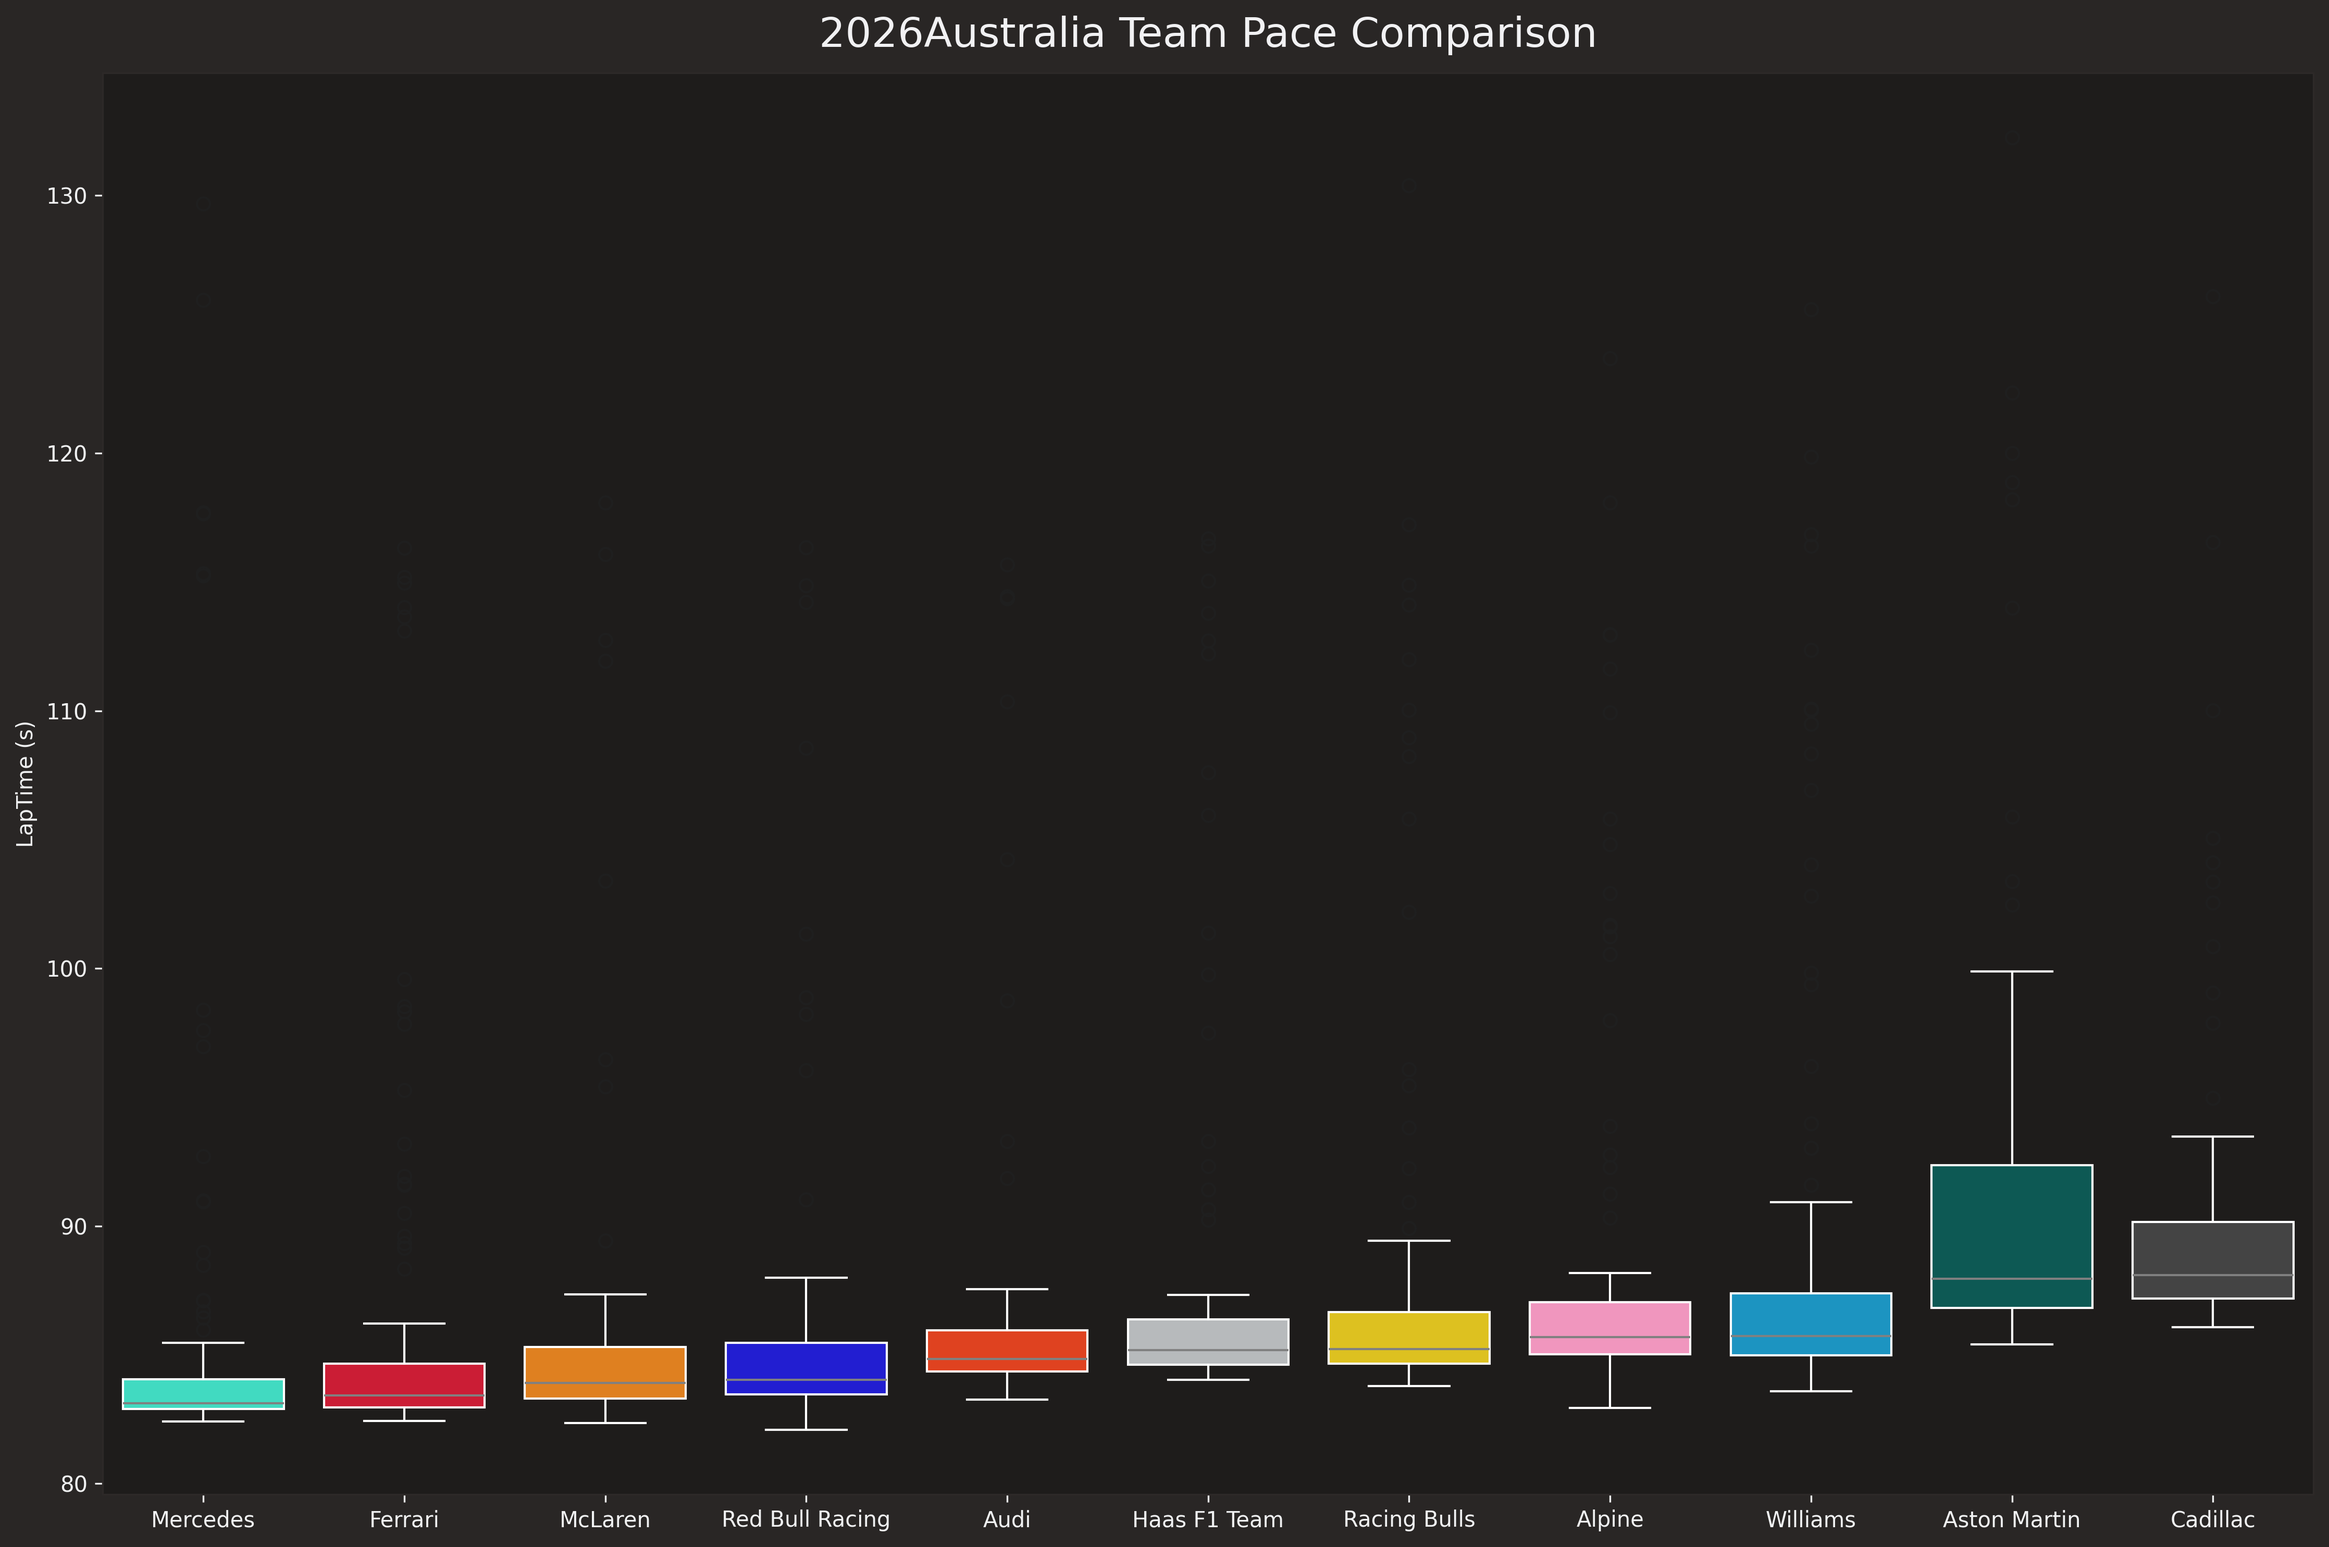
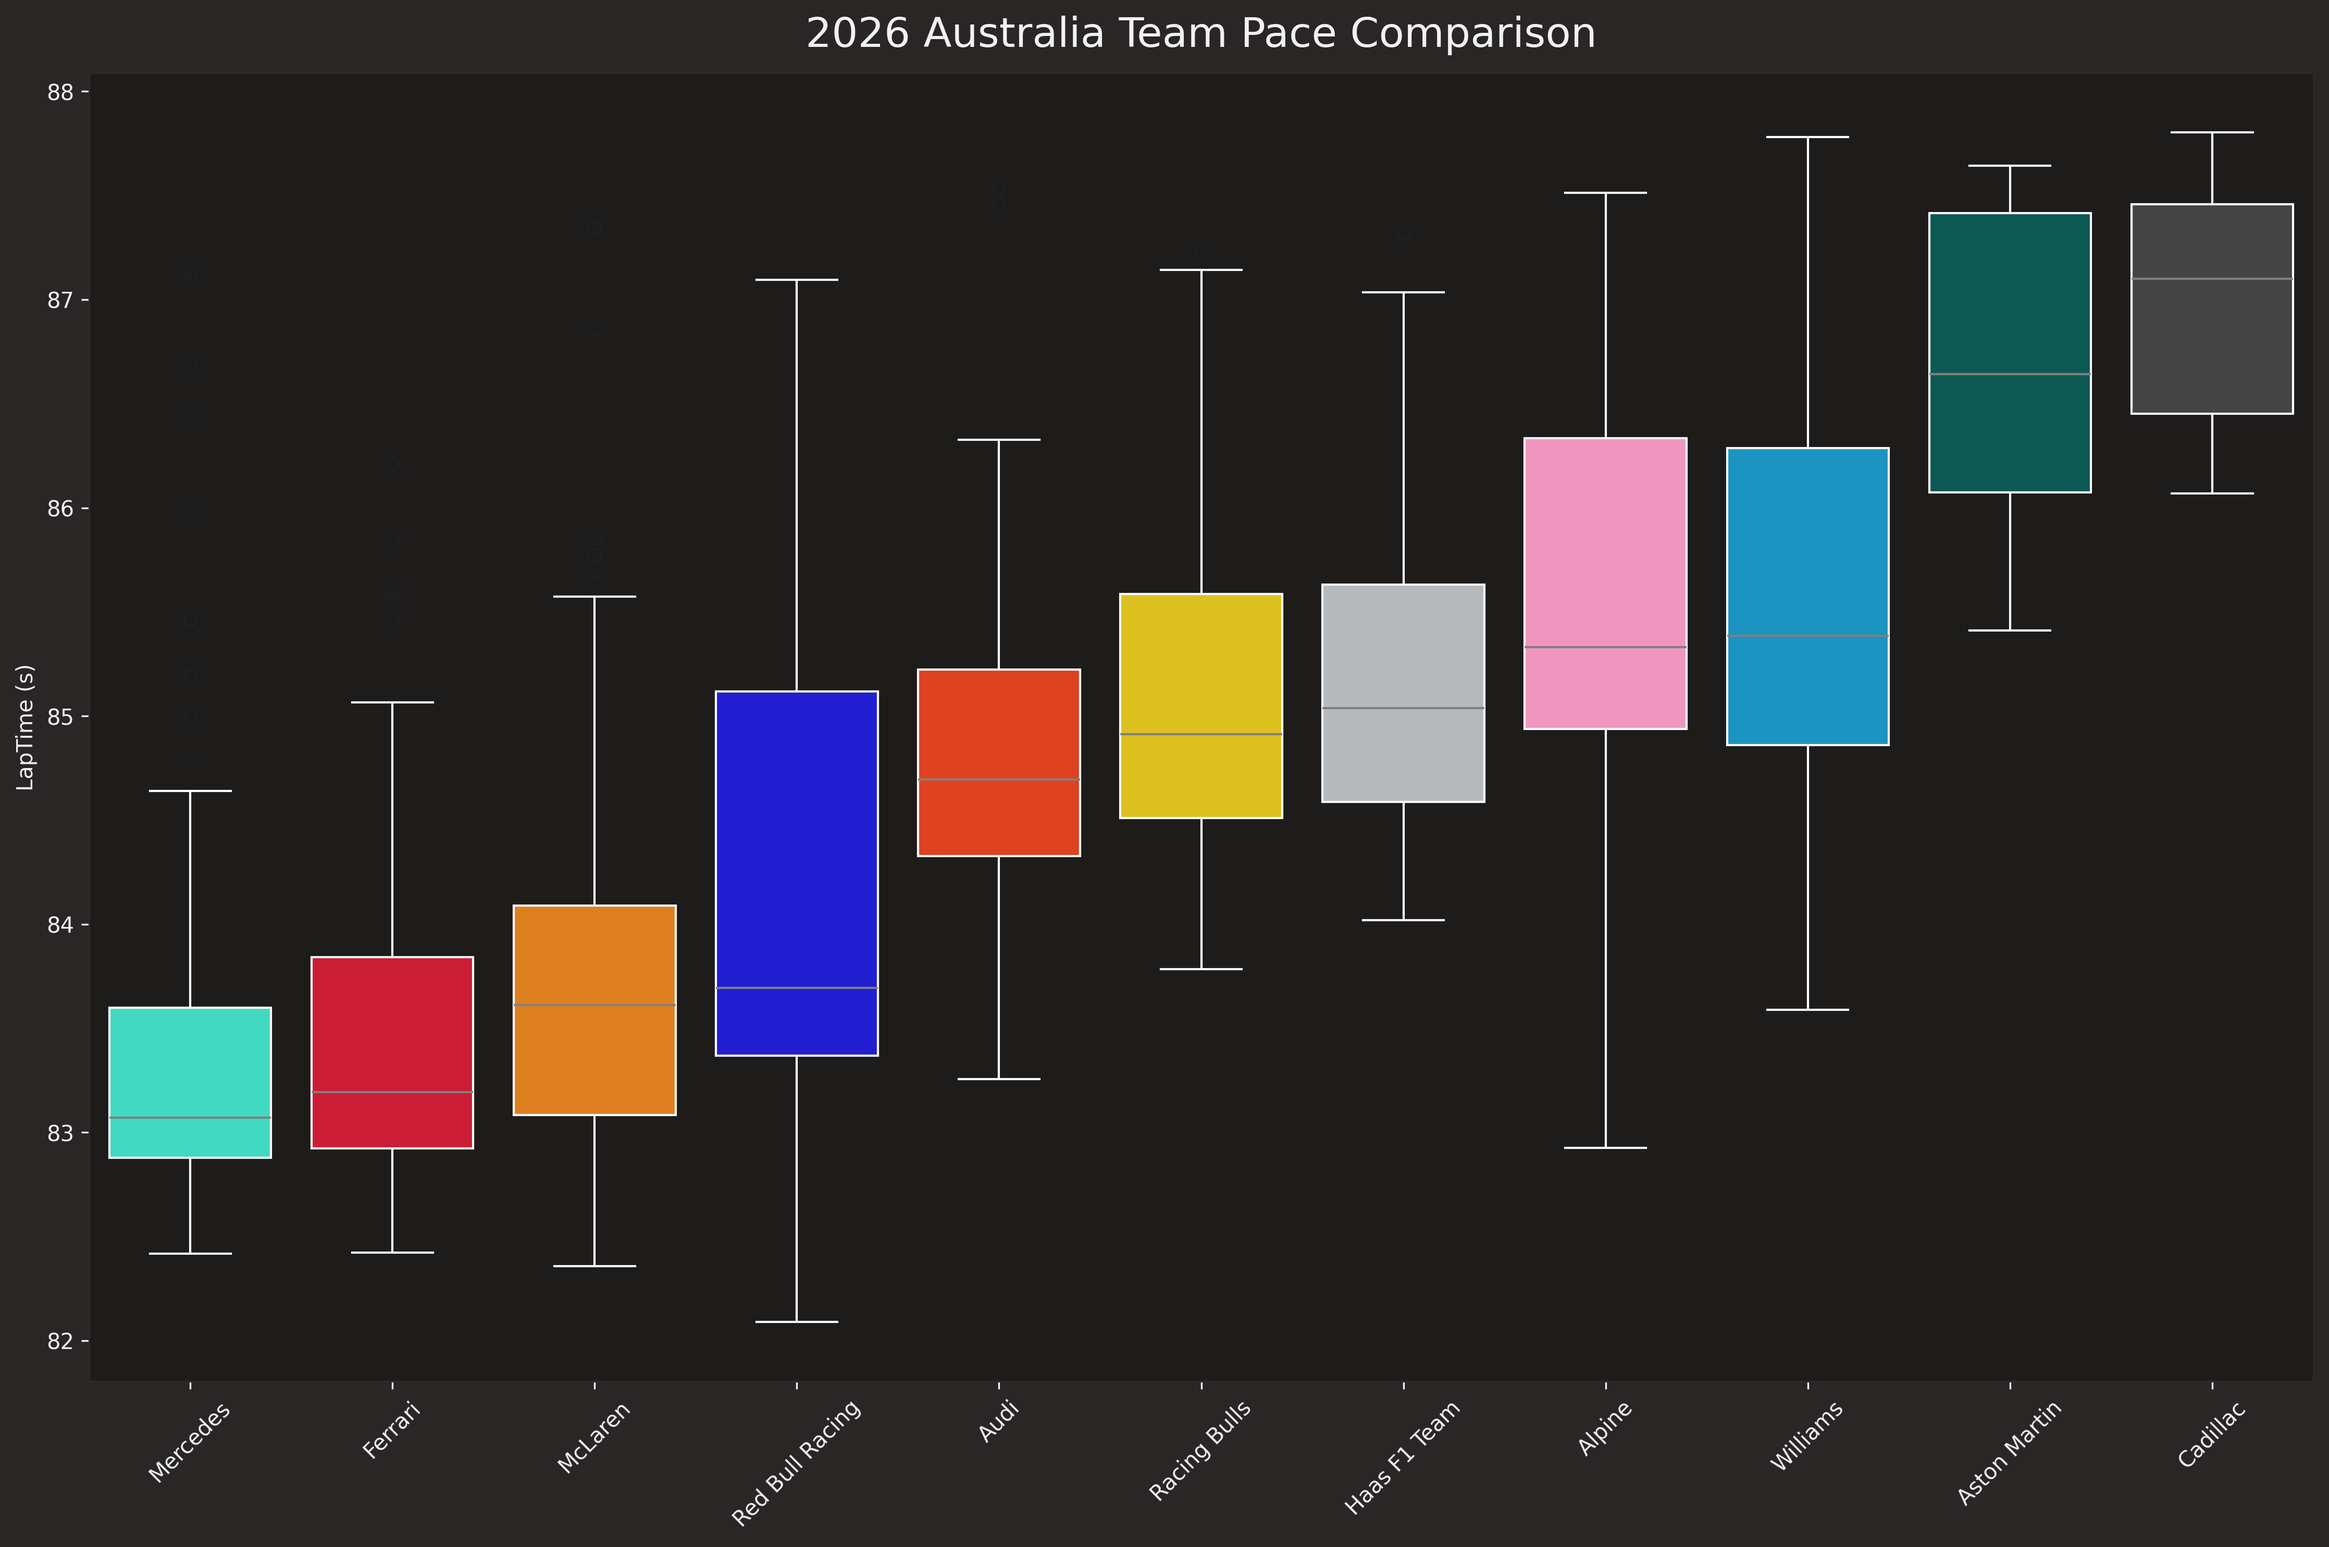
[AUSTRALIA] Updated plots and added script for points calculation

diff --git a/2026/1-australia/plots.py b/2026/1-australia/plots.py
@@ -78,6 +78,7 @@ plt.tight_layout()
 # Save plot
 plot_path = os.path.join(gpx_path, string_race+"_position_changes.png")
 fig.savefig(plot_path, dpi=300, bbox_inches='tight')
+print(f"\nPosition changes plot saved to {plot_path}")
 
 ######################################################
 ### QUALIFYING RESULTS OVERVIEW
@@ -127,116 +128,102 @@ plt.suptitle(f"{quali_session.event['EventName']} {quali_session.event.year} Qua
 # Save plot
 plot_path = os.path.join(gpx_path, string_race+"_qualifying_results.png")
 fig.savefig(plot_path, dpi=300, bbox_inches='tight')
+print(f"\nQualifying results plot saved to {plot_path}")
 
 ######################################################
 ### CIRCUIT
 ######################################################
+
+fig, ax = plt.subplots(figsize=(10, 10)) # Create new fig to avoid overlap
 
 def rotate(xy, *, angle):
     rot_mat = np.array([[np.cos(angle), np.sin(angle)],
                         [-np.sin(angle), np.cos(angle)]])
     return np.matmul(xy, rot_mat)
 
-# Get an array of shape [n, 2] where n is the number of points and the second
-# axis is x and y.
 track = pos.loc[:, ('X', 'Y')].to_numpy()
-
-# Convert the rotation angle from degrees to radian.
 track_angle = circuit_info.rotation / 180 * np.pi
-
-# Rotate and plot the track map.
 rotated_track = rotate(track, angle=track_angle)
-plt.plot(rotated_track[:, 0], rotated_track[:, 1])
 
-offset_vector = [500, 0]  # offset length is chosen arbitrarily to 'look good'
+ax.plot(rotated_track[:, 0], rotated_track[:, 1], linestyle='-', linewidth=3)
 
-# Iterate over all corners.
+offset_vector = [500, 0] 
+
 for _, corner in circuit_info.corners.iterrows():
-    # Create a string from corner number and letter
     txt = f"{corner['Number']}{corner['Letter']}"
-
-    # Convert the angle from degrees to radian.
     offset_angle = corner['Angle'] / 180 * np.pi
-
-    # Rotate the offset vector so that it points sideways from the track.
     offset_x, offset_y = rotate(offset_vector, angle=offset_angle)
-
-    # Add the offset to the position of the corner
-    text_x = corner['X'] + offset_x
-    text_y = corner['Y'] + offset_y
-
-    # Rotate the text position equivalently to the rest of the track map
-    text_x, text_y = rotate([text_x, text_y], angle=track_angle)
-
-    # Rotate the center of the corner equivalently to the rest of the track map
+    
+    text_x, text_y = rotate([corner['X'] + offset_x, corner['Y'] + offset_y], angle=track_angle)
     track_x, track_y = rotate([corner['X'], corner['Y']], angle=track_angle)
 
-    # Draw a circle next to the track.
-    plt.scatter(text_x, text_y, color='grey', s=140)
+    ax.scatter(text_x, text_y, color='grey', s=140)
+    ax.plot([track_x, text_x], [track_y, text_y], color='grey')
+    ax.text(text_x, text_y, txt, va='center_baseline', ha='center', size='small', color='white')
 
-    # Draw a line from the track to this circle.
-    plt.plot([track_x, text_x], [track_y, text_y], color='grey')
+ax.set_title(f"{quali_session.event['Location']} Circuit Map")
+ax.axis('off') # Cleaner look for maps
+ax.set_aspect('equal')
 
-    # Finally, print the corner number inside the circle.
-    plt.text(text_x, text_y, txt,
-             va='center_baseline', ha='center', size='small', color='white')
-    
-plt.title(quali_session.event['Location'])
-plt.axis('equal')
-
-# Save plot
 plot_path = os.path.join(gpx_path, string_race+"_circuit_map.png")
 fig.savefig(plot_path, dpi=300, bbox_inches='tight')
+print(f"\nCircuit map plot saved to {plot_path}")
 
 ######################################################
 ### TYRE STRATEGY DURING THE RACE
 ######################################################
 
-drivers = [race_session.get_driver(driver)["Abbreviation"] for driver in race_session.drivers]
-
+# Prepare stint data
 stints = laps[["Driver", "Stint", "Compound", "LapNumber"]]
-stints = stints.groupby(["Driver", "Stint", "Compound"])
-stints = stints.count().reset_index()
-
+stints = stints.groupby(["Driver", "Stint", "Compound"]).count().reset_index()
 stints = stints.rename(columns={"LapNumber": "StintLength"})
 
-fig, ax = plt.subplots(figsize=(5, 10))
+# Order drivers by finishing position
+drivers = [race_session.get_driver(d)["Abbreviation"] for d in race_session.drivers]
 
-for driver in race_session.drivers:
+fig, ax = plt.subplots(figsize=(6, 10))
+
+for driver in drivers:
     driver_stints = stints.loc[stints["Driver"] == driver]
 
     previous_stint_end = 0
-    for idx, row in driver_stints.iterrows():
-        # each row contains the compound name and stint length
-        # we can use these information to draw horizontal bars
-        compound_color = fastf1.plotting.get_compound_color(row["Compound"],
-                                                            session=race_session)
-        plt.barh(
+    for _, row in driver_stints.iterrows():
+        compound_color = fastf1.plotting.get_compound_color(
+            row["Compound"],
+            session=race_session
+        )
+
+        ax.barh(
             y=driver,
             width=row["StintLength"],
             left=previous_stint_end,
             color=compound_color,
             edgecolor="black",
-            fill=True
+            height=0.8
         )
 
         previous_stint_end += row["StintLength"]
 
-plt.title(str(year)+race_name+" Grand Prix Tyre Strategies")
-plt.xlabel("Lap Number")
-plt.grid(False)
-# invert the y-axis so drivers that finish higher are closer to the top
+# Titles and labels
+ax.set_title(f"{year} {race_name} Grand Prix Tyre Strategies")
+ax.set_xlabel("Lap Number")
+
+# Best finishing drivers at the top
 ax.invert_yaxis()
 
-ax.spines['top'].set_visible(False)
-ax.spines['right'].set_visible(False)
-ax.spines['left'].set_visible(False)
+# Clean aesthetics
+ax.spines["top"].set_visible(False)
+ax.spines["right"].set_visible(False)
+ax.spines["left"].set_visible(False)
+
+ax.grid(False)
 
 plt.tight_layout()
 
 # Save plot
-plot_path = os.path.join(gpx_path, string_race+"_tyre_strategy.png")
-fig.savefig(plot_path, dpi=300, bbox_inches='tight')
+plot_path = os.path.join(gpx_path, string_race + "_tyre_strategy.png")
+fig.savefig(plot_path, dpi=300, bbox_inches="tight")
+print(f"\nTyre strategy plot saved to {plot_path}")
 
 ##########################################################
 ### TEAM PACE COMPARISON
@@ -245,18 +232,13 @@ fig.savefig(plot_path, dpi=300, bbox_inches='tight')
 transformed_laps = laps.copy()
 transformed_laps.loc[:, "LapTime (s)"] = laps["LapTime"].dt.total_seconds()
 
-# order the team from the fastest (lowest median lap time) tp slower
-team_order = (
-    transformed_laps[["Team", "LapTime (s)"]]
-    .groupby("Team")
-    .median()["LapTime (s)"]
-    .sort_values()
-    .index
-)
+# Filter out extreme outliers for better visualization
+transformed_laps = transformed_laps.loc[transformed_laps['LapTime (s)'] < transformed_laps['LapTime (s)'].min() * 1.07]
 
-# make a color palette associating team names to hex codes
-team_palette = {team: fastf1.plotting.get_team_color(team, session=race_session)
-                for team in team_order}
+team_order = (transformed_laps[["Team", "LapTime (s)"]].groupby("Team")
+              .median()["LapTime (s)"].sort_values().index)
+
+team_palette = {team: fastf1.plotting.get_team_color(team, session=race_session) for team in team_order}
 
 fig, ax = plt.subplots(figsize=(15, 10))
 sns.boxplot(
@@ -272,13 +254,11 @@ sns.boxplot(
     capprops=dict(color="white"),
 )
 
-plt.title(str(year)+race_name+" Team Pace Comparison")
-plt.grid(visible=False)
-
-# x-label is redundant
-ax.set(xlabel=None)
+ax.set_title(f"{year} {race_name} Team Pace Comparison")
+ax.set_xlabel(None)
+plt.xticks(rotation=45)
 plt.tight_layout()
 
-# Save plot
 plot_path = os.path.join(gpx_path, string_race+"_team_pace_comparison.png")
 fig.savefig(plot_path, dpi=300, bbox_inches='tight')
+print(f"\nTeam pace comparison plot saved to {plot_path}")

diff --git a/2026/1-australia/points_calculation.py b/2026/1-australia/points_calculation.py
@@ -1,0 +1,59 @@
+import os
+import fastf1
+import json as js
+
+################################################################
+# PATH AND DATA LOADING
+################################################################
+
+race_name = "Australia"
+year = 2026
+
+################################################################
+# PATH AND DATA LOADING
+################################################################
+
+# Set up cache folder
+cache_folder = 'cache_folder'
+os.makedirs(cache_folder, exist_ok=True)
+fastf1.Cache.enable_cache(cache_folder)
+print("\nCache enabled successfully!")
+
+# Set up for json output
+path = os.path.dirname(os.path.abspath(__file__))
+global_path = os.path.dirname(os.path.dirname(os.path.abspath(__file__)))
+os.makedirs(os.path.join(path, "data"), exist_ok=True)
+data_path = os.path.join(path, "data")
+print(f"\n\nGlobal path is: {global_path}")
+print(f"\nBase path is: {path}")
+print(f"\nData path set to: {data_path}")
+
+# JSON file path
+json_namefile = 'gp_points.json'
+json_path = os.path.join(data_path, json_namefile)
+print(f"\nJSON output will be saved to: {json_path}")
+
+# Load session data
+print("\n-------------------------------------------------------------------\n")
+session = fastf1.get_session(year, race_name, 'R')
+session.load(telemetry=False)
+print("\n-------------------------------------------------------------------\n")
+
+print("\nData loaded successfully!\n")
+
+################################################################
+# DATA EXTRACTION AND PROCESSING
+################################################################
+
+# Extract points for each driver
+points_data = session.results[['Abbreviation', 'Points']].dropna(subset=['Points'])
+points_data = points_data.rename(columns={'Abbreviation': 'Driver'})
+points_data['Points'] = points_data['Points'].astype(int)
+
+# Convert to dictionary
+points_dict = points_data.set_index('Driver')['Points'].to_dict()
+
+# Save to JSON
+with open(json_path, 'w') as f:
+    js.dump(points_dict, f, indent=4)
+print("\n\nPoints data saved to ../data/gp_points.json\n\n")

diff --git a/2026/1-australia/REPORT.md b/2026/1-australia/REPORT.md
@@ -2,11 +2,38 @@
 
 ## General information
 **Round 1 - Melbourne Grand Prix Circuit, Melbourne**  
-**Date:** 8 March 2026
+
+Here are the general details of the first round of the 2026 Formula 1 season, held at the Melbourne Grand Prix Circuit in Melbourne, Australia:
+* **Number of laps:** 58
+* **Circuit length:** 5,303 km
+* **Race distance:** 307,574 km
+
+Here is a minimal image of the circuit layout with the location and the number of the corners:
+![australia_circuit_minimal](gpx/2026_australia_circuit_map.png)
+
+### Weekend schedule
+The weekend schedule for the Melbourne Grand Prix Circuit was as follows:
+* **Practice 1:** 6 March, 12:30 PM - 13:30 PM
+* **Practice 2:** 6 March, 16:00 PM - 17:00 PM
+* **Practice 3:** 7 March, 12:30 PM - 13:30 PM
+* **Qualifying:** 7 March, 16:00 PM - 17:00 PM
+* **Race:** 8 March, 15:00 PM
+
 
 ## Circuit
 
-![australia_circuit](gpx/2026trackmelbournedetailed.avif)
+The Race Park circuit Melbourne is 5,303 km long, with a total race distance of 307,574 km. 
+
+The circuit is divided into 3 sectors, 14 corners, 5 Straight Mode Zones. Before corner 1 there is a Speed Trap Zone; then, between corner 13 and 14 there are the Overtake Detection and the Overtake Activation.
+
+With FIA regulations for 2026, there are no DRS zones anymore, but there are new features that are designed to promote overtaking. These are:
+
+*  **Speed Trap Zone**: which is used to measure the top speed of the cars.
+*  **Straight Mode Zones**: which are used to allow the cars to use their maximum power for a short period of time, usually on the straights.
+*  **Overtake Detection**: which is used to detect when a car is attempting to overtake another car.
+*  **Overtake Activation**: which is used to allow the cars to use their maximum power for a short period of time, usually when attempting to overtake another car.
+  
+![australia_circuit](gpx/2026trackmelbournedetailed.webp)
 *Source: https://www.formula1.com/en/racing/2026/australia*
 
 ## Prediction
@@ -51,11 +78,8 @@
 | Oscar Piastri   | McLaren |
 | Nico Hülkenberg | Audi    |
 
-### Key Takeaways
-
-- **Mercedes** begins the season with a strong 1–2 finish.  
-- **Andrea Kimi Antonelli** impresses with a podium on debut.  
-- **Ferrari** shows competitive race pace with Leclerc and Hamilton finishing P3–P4.  
-- **Aston Martin** suffers a difficult start with both cars retiring.
-
 ## Plots
+![australia_position_changes](gpx/2026_australia_position_changes.png)
+![australia_qualifying_results](gpx/2026_australia_qualifying_results.png)
+![australia_team_pace_comparison](gpx/2026_australia_team_pace_comparison.png)
+![australia_tyre_strategy](gpx/2026_australia_tyre_strategy.png)
